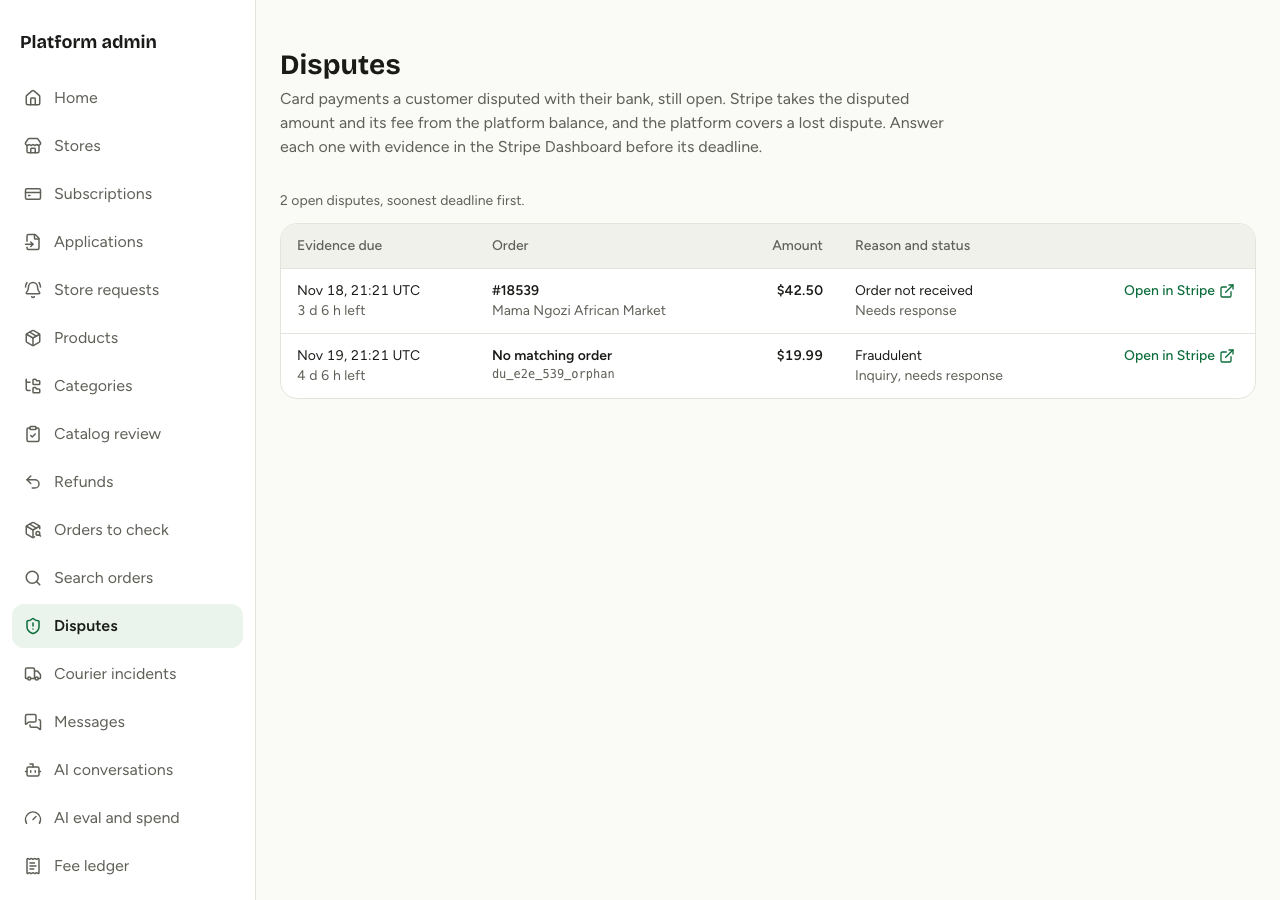
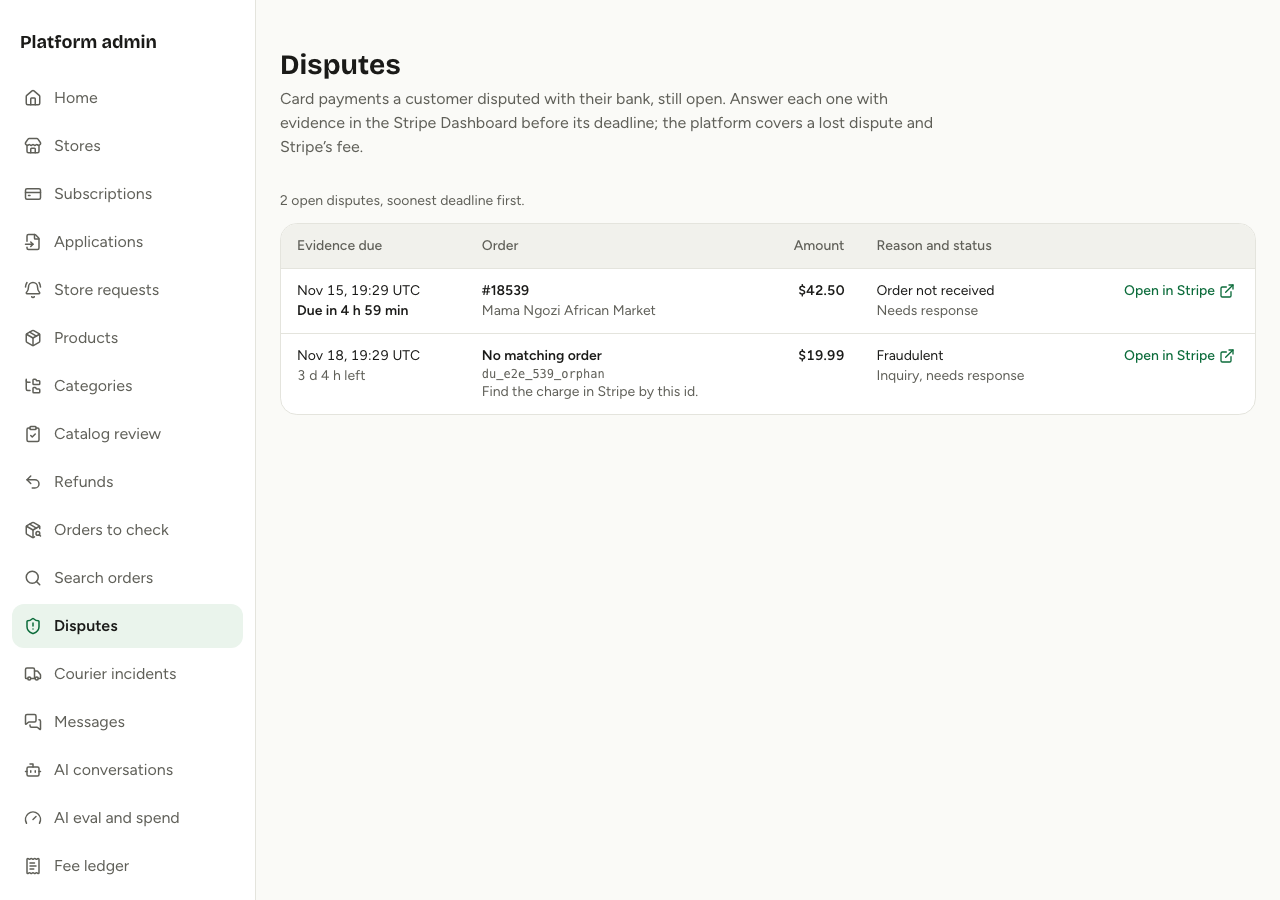
Card disputes: e2e fixture writes times in UTC like the app; proof screenshots after the design pass (#539)
The spec's own Prisma client wrote evidence_due_by in the machine's session zone
(America/Denver), so a 5 h deadline read as 11 h 59 min on the page. The app pins
UTC in src/lib/db.ts; the fixture now does the same.

diff --git a/e2e/admin-disputes.spec.ts b/e2e/admin-disputes.spec.ts
@@ -20,6 +20,8 @@ async function asPlatformAdmin<T>(run: (tx: Prisma.TransactionClient) => Promise
     return await prisma.$transaction(async (tx) => {
       await tx.$executeRaw`SET LOCAL ROLE app_user`;
       await tx.$executeRaw`SELECT set_config('app.is_platform_admin', 'true', true)`;
+      // The pg adapter sends timestamptz without an offset; the app pins UTC (src/lib/db.ts), so this client does too.
+      await tx.$executeRaw`SELECT set_config('TimeZone', 'UTC', true)`;
       return run(tx);
     });
   } finally {
